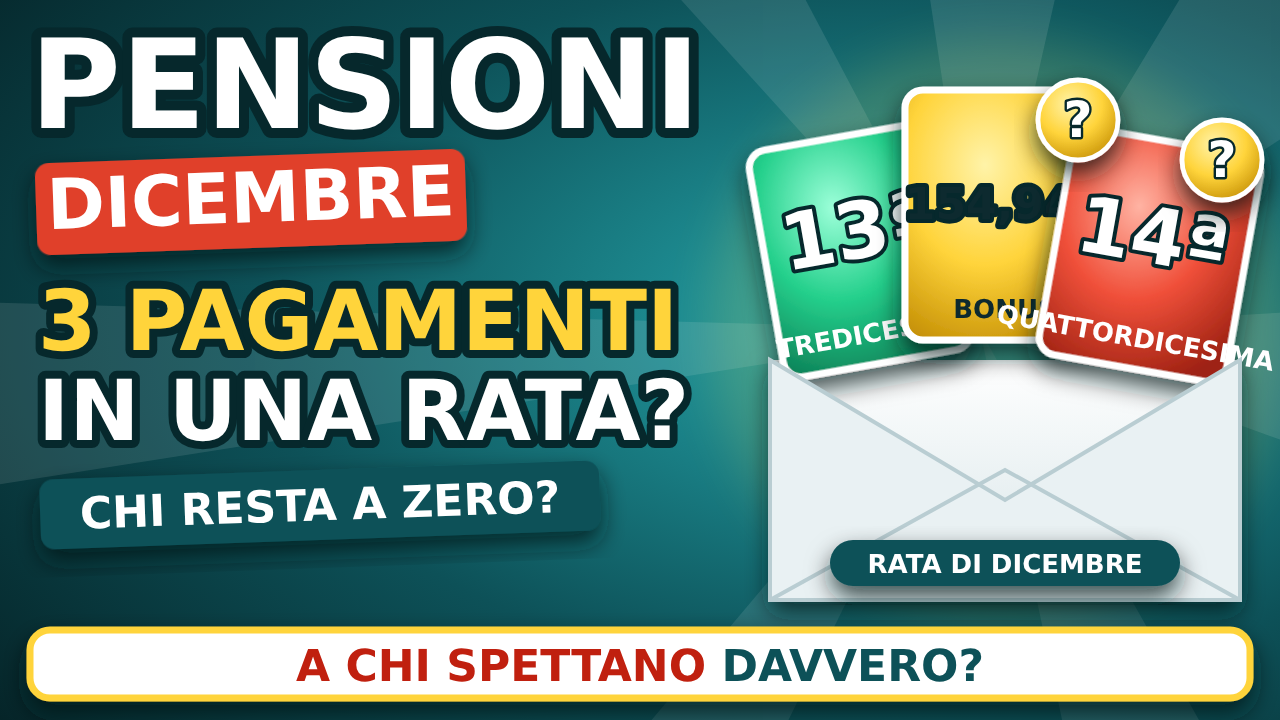
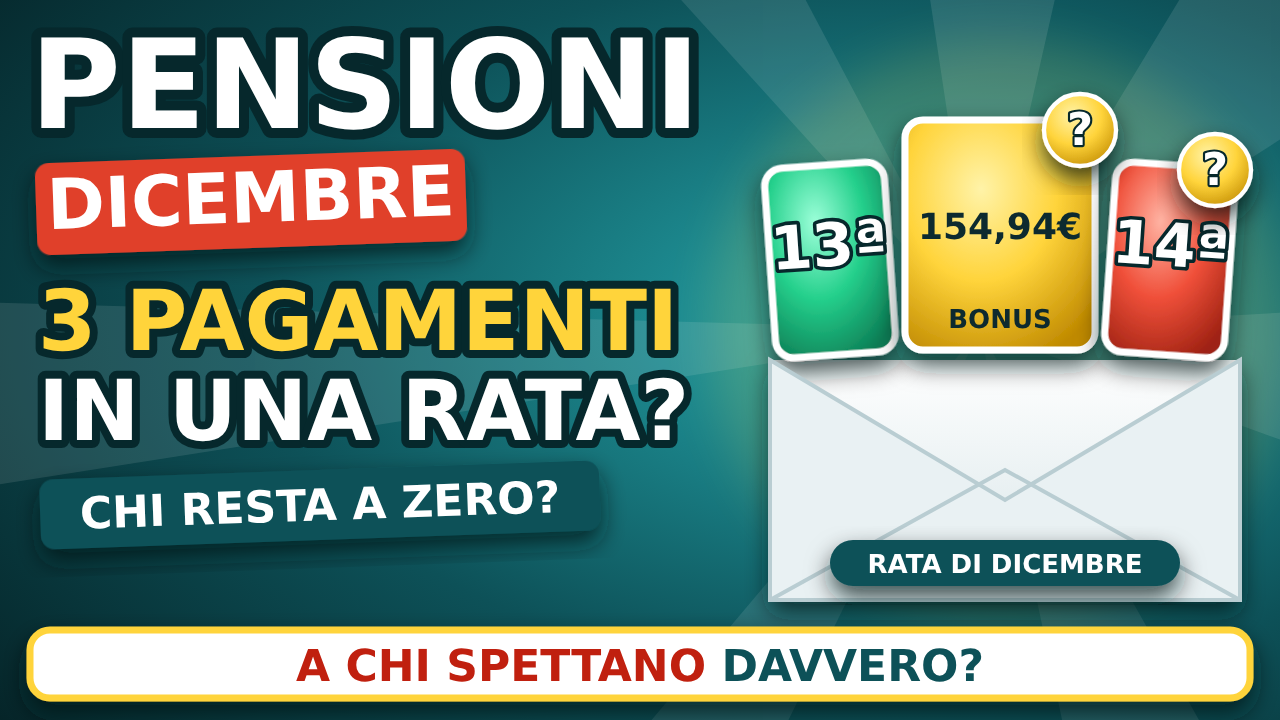
Conti in Pensione: video 9 miniature A e B
Claude-Session: https://claude.ai/code/session_01EZuoQAtV5AgobfY15JhZDe

Changed region(s): [[0.5625, 0.0917, 1.0, 0.5806]]

diff --git a/conti_in_pensione/25-video-lungo-9/miniatura/miniatura-B.html b/conti_in_pensione/25-video-lungo-9/miniatura/miniatura-B.html
@@ -14,8 +14,8 @@
 <circle cx="640" cy="300" r="330" fill="#25D08C" opacity="0.13" filter="url(#gl)"/>
 <g class="t" text-anchor="middle" stroke="#06282C" stroke-linejoin="round" paint-order="stroke" stroke-width="18"><text id="b1" x="640" y="112" font-size="98" fill="#fff">PENSIONI <tspan fill="#FFD43B">DICEMBRE</tspan></text></g>
 <g class="t" text-anchor="middle" stroke="#06282C" stroke-linejoin="round" paint-order="stroke" stroke-width="22"><text id="b2" x="640" y="300" font-size="176" fill="#3BE39A">+154,94€</text></g>
-<g transform="rotate(-1 640.0 367.0)"><g filter="url(#sh)"><rect x="330" y="330" width="620" height="74" rx="14" fill="#FFD43B"/></g><text id="b3" x="640.0" y="383.28" class="t" font-size="46" fill="#0D2A2F" text-anchor="middle">BONUS: TI SPETTA O NO?</text></g>
-<g filter="url(#sh)"><clipPath id="pF250"><circle cx="250" cy="520" r="78"/></clipPath><circle cx="250" cy="520" r="78" fill="#0E5A60"/><g clip-path="url(#pF250)" transform="translate(250 520)"><path d="M-70.2 78 Q-66.3 23.4 0 20.28 Q66.3 23.4 70.2 78 Z" fill="#2B8FA0"/><rect x="-9.36" y="1.56" width="18.72" height="21.840000000000003" fill="#F1D9C4"/><ellipse cx="0" cy="-14.04" rx="23.4" ry="27.299999999999997" fill="#F1D9C4"/><path d="M-24.18 -12.48 Q-26.520000000000003 -35.88 -12.48 -39.0" fill="none" stroke="#C9D3D6" stroke-width="7.800000000000001" stroke-linecap="round"/><circle cx="-10.14" cy="-15.600000000000001" r="7.02" fill="none" stroke="#0B4A50" stroke-width="2.7300000000000004"/><path d="M24.18 -12.48 Q26.520000000000003 -35.88 12.48 -39.0" fill="none" stroke="#C9D3D6" stroke-width="7.800000000000001" stroke-linecap="round"/><circle cx="10.14" cy="-15.600000000000001" r="7.02" fill="none" stroke="#0B4A50" stroke-width="2.7300000000000004"/><circle cx="-9.36" cy="-15.600000000000001" r="2.496" fill="#0B4A50"/><circle cx="9.36" cy="-15.600000000000001" r="2.496" fill="#0B4A50"/><path d="M-7.800000000000001 -0.78 Q0 5.460000000000001 7.800000000000001 -0.78" fill="none" stroke="#0B4A50" stroke-width="2.496" stroke-linecap="round"/></g><circle cx="250" cy="520" r="78" fill="none" stroke="#fff" stroke-width="6.24"/><circle cx="250" cy="520" r="85.02000000000001" fill="none" stroke="#2B8FA0" stroke-width="5.460000000000001"/></g><g filter="url(#sh)"><clipPath id="pA640"><circle cx="640" cy="520" r="78"/></clipPath><circle cx="640" cy="520" r="78" fill="#0E5A60"/><g clip-path="url(#pA640)" transform="translate(640 520)"><path d="M-70.2 78 Q-66.3 23.4 0 20.28 Q66.3 23.4 70.2 78 Z" fill="#1B9F81"/><rect x="-9.36" y="1.56" width="18.72" height="21.840000000000003" fill="#F1D9C4"/><circle cx="0" cy="-46.8" r="14.82" fill="#6B4A3A"/><ellipse cx="0" cy="-14.04" rx="23.4" ry="27.299999999999997" fill="#F1D9C4"/><path d="M-25.740000000000002 -7.800000000000001 Q-29.64 -45.239999999999995 0 -45.239999999999995 Q29.64 -45.239999999999995 25.740000000000002 -7.800000000000001 Q17.16 -32.76 0 -32.76 Q-17.16 -32.76 -25.740000000000002 -7.800000000000001 Z" fill="#6B4A3A"/><circle cx="-9.36" cy="-15.600000000000001" r="2.496" fill="#0B4A50"/><circle cx="9.36" cy="-15.600000000000001" r="2.496" fill="#0B4A50"/><path d="M-7.800000000000001 -0.78 Q0 5.460000000000001 7.800000000000001 -0.78" fill="none" stroke="#0B4A50" stroke-width="2.496" stroke-linecap="round"/></g><circle cx="640" cy="520" r="78" fill="none" stroke="#fff" stroke-width="6.24"/><circle cx="640" cy="520" r="85.02000000000001" fill="none" stroke="#1B9F81" stroke-width="5.460000000000001"/></g><g filter="url(#sh)"><clipPath id="pL1030"><circle cx="1030" cy="520" r="78"/></clipPath><circle cx="1030" cy="520" r="78" fill="#0E5A60"/><g clip-path="url(#pL1030)" transform="translate(1030 520)"><path d="M-70.2 78 Q-66.3 23.4 0 20.28 Q66.3 23.4 70.2 78 Z" fill="#E39A1C"/><rect x="-9.36" y="1.56" width="18.72" height="21.840000000000003" fill="#F1D9C4"/><ellipse cx="0" cy="-14.04" rx="23.4" ry="27.299999999999997" fill="#F1D9C4"/><path d="M-29.64 4.68 Q-34.32 -48.36 0 -45.239999999999995 Q34.32 -48.36 29.64 4.68 L21.060000000000002 4.68 Q21.060000000000002 -29.64 0 -29.64 Q-21.060000000000002 -29.64 -21.060000000000002 4.68 Z" fill="#D5DBDE"/><circle cx="-9.36" cy="-15.600000000000001" r="2.496" fill="#0B4A50"/><circle cx="9.36" cy="-15.600000000000001" r="2.496" fill="#0B4A50"/><path d="M-7.800000000000001 -0.78 Q0 5.460000000000001 7.800000000000001 -0.78" fill="none" stroke="#0B4A50" stroke-width="2.496" stroke-linecap="round"/></g><circle cx="1030" cy="520" r="78" fill="none" stroke="#fff" stroke-width="6.24"/><circle cx="1030" cy="520" r="85.02000000000001" fill="none" stroke="#E39A1C" stroke-width="5.460000000000001"/></g>
+<g transform="rotate(-1 640.0 369.0)"><g filter="url(#sh)"><rect x="280" y="332" width="720" height="74" rx="14" fill="#FFD43B"/></g><text id="b3" x="640.0" y="385.28" class="t" font-size="46" fill="#0D2A2F" text-anchor="middle">BONUS: TI SPETTA O NO?</text></g>
+<g filter="url(#sh)"><circle cx="90" cy="380" r="44" fill="url(#gr)" stroke="#fff" stroke-width="6"/></g><text x="90" y="393" class="t" font-size="36" fill="#fff" text-anchor="middle" stroke="#06282C" stroke-linejoin="round" paint-order="stroke" stroke-width="6">13ª</text><g filter="url(#sh)"><circle cx="1190" cy="380" r="44" fill="url(#re)" stroke="#fff" stroke-width="6"/></g><text x="1190" y="393" class="t" font-size="36" fill="#fff" text-anchor="middle" stroke="#06282C" stroke-linejoin="round" paint-order="stroke" stroke-width="6">14ª</text><g filter="url(#sh)"><clipPath id="pF250"><circle cx="0" cy="0" r="78"/></clipPath><circle cx="250" cy="520" r="78" fill="#0E5A60"/><g transform="translate(250 520)"><g clip-path="url(#pF250)"><path d="M-70.2 78 Q-66.3 23.4 0 20.28 Q66.3 23.4 70.2 78 Z" fill="#2B8FA0"/><rect x="-9.36" y="1.56" width="18.72" height="21.840000000000003" fill="#F1D9C4"/><ellipse cx="0" cy="-14.04" rx="23.4" ry="27.299999999999997" fill="#F1D9C4"/><path d="M-24.18 -12.48 Q-26.520000000000003 -35.88 -12.48 -39.0" fill="none" stroke="#C9D3D6" stroke-width="7.800000000000001" stroke-linecap="round"/><circle cx="-10.14" cy="-15.600000000000001" r="7.02" fill="none" stroke="#0B4A50" stroke-width="2.7300000000000004"/><path d="M24.18 -12.48 Q26.520000000000003 -35.88 12.48 -39.0" fill="none" stroke="#C9D3D6" stroke-width="7.800000000000001" stroke-linecap="round"/><circle cx="10.14" cy="-15.600000000000001" r="7.02" fill="none" stroke="#0B4A50" stroke-width="2.7300000000000004"/><circle cx="-9.36" cy="-15.600000000000001" r="2.496" fill="#0B4A50"/><circle cx="9.36" cy="-15.600000000000001" r="2.496" fill="#0B4A50"/><path d="M-7.800000000000001 -0.78 Q0 5.460000000000001 7.800000000000001 -0.78" fill="none" stroke="#0B4A50" stroke-width="2.496" stroke-linecap="round"/></g></g><circle cx="250" cy="520" r="78" fill="none" stroke="#fff" stroke-width="6.24"/><circle cx="250" cy="520" r="85.02000000000001" fill="none" stroke="#2B8FA0" stroke-width="5.460000000000001"/></g><g filter="url(#sh)"><clipPath id="pA640"><circle cx="0" cy="0" r="78"/></clipPath><circle cx="640" cy="520" r="78" fill="#0E5A60"/><g transform="translate(640 520)"><g clip-path="url(#pA640)"><path d="M-70.2 78 Q-66.3 23.4 0 20.28 Q66.3 23.4 70.2 78 Z" fill="#1B9F81"/><rect x="-9.36" y="1.56" width="18.72" height="21.840000000000003" fill="#F1D9C4"/><circle cx="0" cy="-46.8" r="14.82" fill="#6B4A3A"/><ellipse cx="0" cy="-14.04" rx="23.4" ry="27.299999999999997" fill="#F1D9C4"/><path d="M-25.740000000000002 -7.800000000000001 Q-29.64 -45.239999999999995 0 -45.239999999999995 Q29.64 -45.239999999999995 25.740000000000002 -7.800000000000001 Q17.16 -32.76 0 -32.76 Q-17.16 -32.76 -25.740000000000002 -7.800000000000001 Z" fill="#6B4A3A"/><circle cx="-9.36" cy="-15.600000000000001" r="2.496" fill="#0B4A50"/><circle cx="9.36" cy="-15.600000000000001" r="2.496" fill="#0B4A50"/><path d="M-7.800000000000001 -0.78 Q0 5.460000000000001 7.800000000000001 -0.78" fill="none" stroke="#0B4A50" stroke-width="2.496" stroke-linecap="round"/></g></g><circle cx="640" cy="520" r="78" fill="none" stroke="#fff" stroke-width="6.24"/><circle cx="640" cy="520" r="85.02000000000001" fill="none" stroke="#1B9F81" stroke-width="5.460000000000001"/></g><g filter="url(#sh)"><clipPath id="pL1030"><circle cx="0" cy="0" r="78"/></clipPath><circle cx="1030" cy="520" r="78" fill="#0E5A60"/><g transform="translate(1030 520)"><g clip-path="url(#pL1030)"><path d="M-70.2 78 Q-66.3 23.4 0 20.28 Q66.3 23.4 70.2 78 Z" fill="#E39A1C"/><rect x="-9.36" y="1.56" width="18.72" height="21.840000000000003" fill="#F1D9C4"/><ellipse cx="0" cy="-14.04" rx="23.4" ry="27.299999999999997" fill="#F1D9C4"/><path d="M-29.64 4.68 Q-34.32 -48.36 0 -45.239999999999995 Q34.32 -48.36 29.64 4.68 L21.060000000000002 4.68 Q21.060000000000002 -29.64 0 -29.64 Q-21.060000000000002 -29.64 -21.060000000000002 4.68 Z" fill="#D5DBDE"/><circle cx="-9.36" cy="-15.600000000000001" r="2.496" fill="#0B4A50"/><circle cx="9.36" cy="-15.600000000000001" r="2.496" fill="#0B4A50"/><path d="M-7.800000000000001 -0.78 Q0 5.460000000000001 7.800000000000001 -0.78" fill="none" stroke="#0B4A50" stroke-width="2.496" stroke-linecap="round"/></g></g><circle cx="1030" cy="520" r="78" fill="none" stroke="#fff" stroke-width="6.24"/><circle cx="1030" cy="520" r="85.02000000000001" fill="none" stroke="#E39A1C" stroke-width="5.460000000000001"/></g>
 <g filter="url(#sh)"><circle cx="322" cy="452" r="34" fill="url(#re)" stroke="#fff" stroke-width="4.08"/></g><text x="322" y="466.28" class="t" font-size="42.5" fill="#fff" text-anchor="middle" stroke="#06282C" stroke-linejoin="round" paint-order="stroke" stroke-width="4.08">?</text><g filter="url(#sh)"><circle cx="712" cy="452" r="34" fill="url(#gr)" stroke="#fff" stroke-width="4.08"/></g><text x="712" y="466.28" class="t" font-size="42.5" fill="#fff" text-anchor="middle" stroke="#06282C" stroke-linejoin="round" paint-order="stroke" stroke-width="4.08">?</text><g filter="url(#sh)"><circle cx="1102" cy="452" r="34" fill="url(#ye)" stroke="#fff" stroke-width="4.08"/></g><text x="1102" y="466.28" class="t" font-size="42.5" fill="#fff" text-anchor="middle" stroke="#06282C" stroke-linejoin="round" paint-order="stroke" stroke-width="4.08">?</text>
-<g transform="rotate(-6 100.0 496.0)"><g filter="url(#sh)"><rect x="30" y="470" width="140" height="52" rx="14" fill="#fff"/></g><text id="b4" x="100.0" y="507.44" class="t" font-size="34" fill="#0D5158" text-anchor="middle">13ª</text></g><g transform="rotate(6 1180.0 496.0)"><g filter="url(#sh)"><rect x="1110" y="470" width="140" height="52" rx="14" fill="#E0402A"/></g><text id="b5" x="1180.0" y="507.44" class="t" font-size="34" fill="#fff" text-anchor="middle">14ª</text></g>
+
 <g filter="url(#sh)"><rect x="30" y="630" width="1220" height="68" rx="20" fill="#fff"/><rect x="30" y="630" width="1220" height="68" rx="20" fill="none" stroke="#FFD43B" stroke-width="7"/></g><text id="strip" x="640" y="681" class="t" font-size="44" fill="#C0200F" text-anchor="middle">PER 10 € IN PIÙ AL MESE <tspan fill="#0D5158">LO PERDI</tspan></text></svg></body></html>

diff --git a/conti_in_pensione/25-video-lungo-9/miniatura/miniatura-A.html b/conti_in_pensione/25-video-lungo-9/miniatura/miniatura-A.html
@@ -17,10 +17,10 @@
 <g class="t" stroke="#06282C" stroke-linejoin="round" paint-order="stroke" stroke-width="16"><text id="a3" x="38" y="350" font-size="84" fill="#FFD43B">3 PAGAMENTI</text><text id="a4" x="38" y="440" font-size="84" fill="#fff">IN UNA RATA?</text></g>
 <g transform="rotate(-2 320.0 505.0)"><g filter="url(#sh)"><rect x="40" y="470" width="560" height="70" rx="14" fill="#0D5158"/></g><text id="a5" x="320.0" y="520.4" class="t" font-size="44" fill="#fff" text-anchor="middle">CHI RESTA A ZERO?</text></g>
 <g filter="url(#sh)"><path d="M770 360 L1240 360 L1240 600 L770 600 Z" fill="url(#pp)"/></g>
-<g transform="rotate(-10 860 250)"><g filter="url(#sh)"><rect x="765.0" y="135.0" width="190" height="230" rx="18" fill="url(#gr)" stroke="#fff" stroke-width="7"/></g><text x="860" y="257.8" class="t" font-size="78" fill="#fff" text-anchor="middle" stroke="#06282C" stroke-linejoin="round" paint-order="stroke" stroke-width="8">13ª</text><text x="860" y="343.0" class="t" font-size="26" fill="#fff" text-anchor="middle">TREDICESIMA</text></g>
-<g transform="rotate(0 1005 215)"><g filter="url(#sh)"><rect x="905.0" y="90.0" width="200" height="250" rx="18" fill="url(#ye)" stroke="#fff" stroke-width="7"/></g><text x="1005" y="219.4" class="t" font-size="44" fill="#0D2A2F" text-anchor="middle" stroke="#06282C" stroke-linejoin="round" paint-order="stroke" stroke-width="8">154,94€</text><text x="1005" y="318.0" class="t" font-size="26" fill="#0D2A2F" text-anchor="middle">BONUS</text></g>
-<g transform="rotate(10 1150 255)"><g filter="url(#sh)"><rect x="1055.0" y="140.0" width="190" height="230" rx="18" fill="url(#re)" stroke="#fff" stroke-width="7"/></g><text x="1150" y="262.8" class="t" font-size="78" fill="#fff" text-anchor="middle" stroke="#06282C" stroke-linejoin="round" paint-order="stroke" stroke-width="8">14ª</text><text x="1150" y="348.0" class="t" font-size="26" fill="#fff" text-anchor="middle">QUATTORDICESIMA</text></g>
+<g transform="rotate(-4 830 260)"><g filter="url(#sh)"><rect x="770.0" y="165.0" width="120" height="190" rx="18" fill="url(#gr)" stroke="#fff" stroke-width="7"/></g><text x="830" y="266.0" class="t" font-size="60" fill="#fff" text-anchor="middle" stroke="#06282C" stroke-linejoin="round" paint-order="stroke" stroke-width="7.199999999999999">13ª</text><text x="830" y="333.0" class="t" font-size="26" fill="#fff" text-anchor="middle"></text></g>
+<g transform="rotate(0 1000 235)"><g filter="url(#sh)"><rect x="905.0" y="120.0" width="190" height="230" rx="18" fill="url(#ye)" stroke="#fff" stroke-width="7"/></g><text x="1000" y="238.6" class="t" font-size="36" fill="#0D2A2F" text-anchor="middle"  stroke-width="4.32">154,94€</text><text x="1000" y="328.0" class="t" font-size="26" fill="#0D2A2F" text-anchor="middle">BONUS</text></g>
+<g transform="rotate(4 1170 260)"><g filter="url(#sh)"><rect x="1110.0" y="165.0" width="120" height="190" rx="18" fill="url(#re)" stroke="#fff" stroke-width="7"/></g><text x="1170" y="266.0" class="t" font-size="60" fill="#fff" text-anchor="middle" stroke="#06282C" stroke-linejoin="round" paint-order="stroke" stroke-width="7.199999999999999">14ª</text><text x="1170" y="333.0" class="t" font-size="26" fill="#fff" text-anchor="middle"></text></g>
 <path d="M770 360 L1005 500 L1240 360 L1240 600 L770 600 Z" fill="#E9F1F3" stroke="#B9CDD2" stroke-width="4"/><path d="M770 600 L1005 470 L1240 600" fill="none" stroke="#B9CDD2" stroke-width="4"/>
 <g filter="url(#sh)"><rect x="830" y="540" width="350" height="46" rx="23" fill="#0D5158"/></g><text x="1005" y="573" class="t" font-size="26" fill="#fff" text-anchor="middle">RATA DI DICEMBRE</text>
-<g filter="url(#sh)"><circle cx="1078" cy="120" r="40" fill="url(#ye)" stroke="#fff" stroke-width="4.8"/></g><text x="1078" y="136.8" class="t" font-size="50.0" fill="#fff" text-anchor="middle" stroke="#06282C" stroke-linejoin="round" paint-order="stroke" stroke-width="4.8">?</text><g filter="url(#sh)"><circle cx="1222" cy="160" r="40" fill="url(#ye)" stroke="#fff" stroke-width="4.8"/></g><text x="1222" y="176.8" class="t" font-size="50.0" fill="#fff" text-anchor="middle" stroke="#06282C" stroke-linejoin="round" paint-order="stroke" stroke-width="4.8">?</text>
+<g filter="url(#sh)"><circle cx="1080" cy="130" r="36" fill="url(#ye)" stroke="#fff" stroke-width="4.32"/></g><text x="1080" y="145.12" class="t" font-size="45.0" fill="#fff" text-anchor="middle" stroke="#06282C" stroke-linejoin="round" paint-order="stroke" stroke-width="4.32">?</text><g filter="url(#sh)"><circle cx="1215" cy="170" r="36" fill="url(#ye)" stroke="#fff" stroke-width="4.32"/></g><text x="1215" y="185.12" class="t" font-size="45.0" fill="#fff" text-anchor="middle" stroke="#06282C" stroke-linejoin="round" paint-order="stroke" stroke-width="4.32">?</text>
 <g filter="url(#sh)"><rect x="30" y="630" width="1220" height="68" rx="20" fill="#fff"/><rect x="30" y="630" width="1220" height="68" rx="20" fill="none" stroke="#FFD43B" stroke-width="7"/></g><text id="strip" x="640" y="681" class="t" font-size="44" fill="#C0200F" text-anchor="middle">A CHI SPETTANO <tspan fill="#0D5158">DAVVERO?</tspan></text></svg></body></html>

diff --git a/conti_in_pensione/25-video-lungo-9/miniatura/gen9.py b/conti_in_pensione/25-video-lungo-9/miniatura/gen9.py
@@ -15,7 +15,7 @@ def qball(cx,cy,r,fill='url(#ye)'):
     return f'<g filter="url(#sh)"><circle cx="{cx}" cy="{cy}" r="{r}" fill="{fill}" stroke="#fff" stroke-width="{r*0.12}"/></g><text x="{cx}" y="{cy+r*0.42}" class="t" font-size="{r*1.25}" fill="#fff" text-anchor="middle" {S} stroke-width="{r*0.12}">?</text>'
 def person(cx,cy,r,kind,col):
     SK='#F1D9C4';u=f'p{kind}{cx}'
-    s=f'<g filter="url(#sh)"><clipPath id="{u}"><circle cx="{cx}" cy="{cy}" r="{r}"/></clipPath><circle cx="{cx}" cy="{cy}" r="{r}" fill="#0E5A60"/><g clip-path="url(#{u})" transform="translate({cx} {cy})">'
+    s=f'<g filter="url(#sh)"><clipPath id="{u}"><circle cx="0" cy="0" r="{r}"/></clipPath><circle cx="{cx}" cy="{cy}" r="{r}" fill="#0E5A60"/><g transform="translate({cx} {cy})"><g clip-path="url(#{u})">'
     s+=f'<path d="M{-r*0.9} {r} Q{-r*0.85} {r*0.3} 0 {r*0.26} Q{r*0.85} {r*0.3} {r*0.9} {r} Z" fill="{col}"/><rect x="{-r*0.12}" y="{r*0.02}" width="{r*0.24}" height="{r*0.28}" fill="{SK}"/>'
     if kind=='A':s+=f'<circle cx="0" cy="{-r*0.6}" r="{r*0.19}" fill="#6B4A3A"/>'
     s+=f'<ellipse cx="0" cy="{-r*0.18}" rx="{r*0.3}" ry="{r*0.35}" fill="{SK}"/>'
@@ -24,11 +24,11 @@ def person(cx,cy,r,kind,col):
     if kind=='F':
         for k in (-1,1):s+=f'<path d="M{k*r*0.31} {-r*0.16} Q{k*r*0.34} {-r*0.46} {k*r*0.16} {-r*0.5}" fill="none" stroke="#C9D3D6" stroke-width="{r*0.1}" stroke-linecap="round"/><circle cx="{k*r*0.13}" cy="{-r*0.2}" r="{r*0.09}" fill="none" stroke="#0B4A50" stroke-width="{r*0.035}"/>'
     for k in (-1,1):s+=f'<circle cx="{k*r*0.12}" cy="{-r*0.2}" r="{r*0.032}" fill="#0B4A50"/>'
-    s+=f'<path d="M{-r*0.1} {-r*0.01} Q0 {r*0.07} {r*0.1} {-r*0.01}" fill="none" stroke="#0B4A50" stroke-width="{r*0.032}" stroke-linecap="round"/></g>'
+    s+=f'<path d="M{-r*0.1} {-r*0.01} Q0 {r*0.07} {r*0.1} {-r*0.01}" fill="none" stroke="#0B4A50" stroke-width="{r*0.032}" stroke-linecap="round"/></g></g>'
     s+=f'<circle cx="{cx}" cy="{cy}" r="{r}" fill="none" stroke="#fff" stroke-width="{r*0.08}"/><circle cx="{cx}" cy="{cy}" r="{r*1.09}" fill="none" stroke="{col}" stroke-width="{r*0.07}"/></g>'
     return s
 def card(x,y,w,h,rot,fill,big,fs,sub,col='#fff'):
-    return f'<g transform="rotate({rot} {x} {y})"><g filter="url(#sh)"><rect x="{x-w/2}" y="{y-h/2}" width="{w}" height="{h}" rx="18" fill="{fill}" stroke="#fff" stroke-width="7"/></g><text x="{x}" y="{y+fs*0.1}" class="t" font-size="{fs}" fill="{col}" text-anchor="middle" {S} stroke-width="8">{big}</text><text x="{x}" y="{y+h/2-22}" class="t" font-size="26" fill="{col}" text-anchor="middle">{sub}</text></g>'
+    return f'<g transform="rotate({rot} {x} {y})"><g filter="url(#sh)"><rect x="{x-w/2}" y="{y-h/2}" width="{w}" height="{h}" rx="18" fill="{fill}" stroke="#fff" stroke-width="7"/></g><text x="{x}" y="{y+fs*0.1}" class="t" font-size="{fs}" fill="{col}" text-anchor="middle" {S if col=='#fff' else ''} stroke-width="{max(3,fs*0.12)}">{big}</text><text x="{x}" y="{y+h/2-22}" class="t" font-size="26" fill="{col}" text-anchor="middle">{sub}</text></g>'
 # A: LA BUSTA DELLA RATA DI DICEMBRE con 3 pagamenti che escono (due coperti da "?")
 ENV=f'''<g filter="url(#sh)"><path d="M770 360 L1240 360 L1240 600 L770 600 Z" fill="url(#pp)"/></g>'''
 ENVF=f'''<path d="M770 360 L1005 500 L1240 360 L1240 600 L770 600 Z" fill="#E9F1F3" stroke="#B9CDD2" stroke-width="4"/><path d="M770 600 L1005 470 L1240 600" fill="none" stroke="#B9CDD2" stroke-width="4"/>
@@ -39,20 +39,20 @@ A=HEAD+f"""<circle cx="1000" cy="330" r="290" fill="#FFD43B" opacity="0.14" filt
 <g class="t" {S} stroke-width="16"><text id="a3" x="38" y="350" font-size="84" fill="#FFD43B">3 PAGAMENTI</text><text id="a4" x="38" y="440" font-size="84" fill="#fff">IN UNA RATA?</text></g>
 {blocco(40,470,560,70,"CHI RESTA A ZERO?",44,"#0D5158","#fff",-2,'a5')}
 {ENV}
-{card(860,250,190,230,-10,"url(#gr)","13ª",78,"TREDICESIMA")}
-{card(1005,215,200,250,0,"url(#ye)","154,94€",44,"BONUS","#0D2A2F")}
-{card(1150,255,190,230,10,"url(#re)","14ª",78,"QUATTORDICESIMA")}
+{card(830,260,120,190,-4,"url(#gr)","13ª",60,"")}
+{card(1000,235,190,230,0,"url(#ye)","154,94€",36,"BONUS","#0D2A2F")}
+{card(1170,260,120,190,4,"url(#re)","14ª",60,"")}
 {ENVF}
-{qball(1078,120,40)}{qball(1222,160,40)}
+{qball(1080,130,36)}{qball(1215,170,36)}
 """+STRIP('A CHI SPETTANO <tspan fill="#0D5158">DAVVERO?</tspan>')+END
 # B: NUMERO GIGANTE + TRE VICINI con "?" (chi lo prende?)
 B=HEAD+f"""<circle cx="640" cy="300" r="330" fill="#25D08C" opacity="0.13" filter="url(#gl)"/>
 <g class="t" text-anchor="middle" {S} stroke-width="18"><text id="b1" x="640" y="112" font-size="98" fill="#fff">PENSIONI <tspan fill="#FFD43B">DICEMBRE</tspan></text></g>
 <g class="t" text-anchor="middle" {S} stroke-width="22"><text id="b2" x="640" y="300" font-size="176" fill="#3BE39A">+154,94€</text></g>
-{blocco(330,330,620,74,"BONUS: TI SPETTA O NO?",46,"#FFD43B","#0D2A2F",-1,'b3')}
-{person(250,520,78,'F','#2B8FA0')}{person(640,520,78,'A','#1B9F81')}{person(1030,520,78,'L','#E39A1C')}
+{blocco(280,332,720,74,"BONUS: TI SPETTA O NO?",46,"#FFD43B","#0D2A2F",-1,'b3')}
+<g filter="url(#sh)"><circle cx="90" cy="380" r="44" fill="url(#gr)" stroke="#fff" stroke-width="6"/></g><text x="90" y="393" class="t" font-size="36" fill="#fff" text-anchor="middle" {S} stroke-width="6">13ª</text><g filter="url(#sh)"><circle cx="1190" cy="380" r="44" fill="url(#re)" stroke="#fff" stroke-width="6"/></g><text x="1190" y="393" class="t" font-size="36" fill="#fff" text-anchor="middle" {S} stroke-width="6">14ª</text>{person(250,520,78,'F','#2B8FA0')}{person(640,520,78,'A','#1B9F81')}{person(1030,520,78,'L','#E39A1C')}
 {qball(322,452,34,'url(#re)')}{qball(712,452,34,'url(#gr)')}{qball(1102,452,34,'url(#ye)')}
-{blocco(30,470,140,52,"13ª",34,"#fff","#0D5158",-6,'b4')}{blocco(1110,470,140,52,"14ª",34,"#E0402A","#fff",6,'b5')}
+
 """+STRIP('PER 10 € IN PIÙ AL MESE <tspan fill="#0D5158">LO PERDI</tspan>')+END
 JS="""()=>{const o=[];for(const t of document.querySelectorAll('text')){const r=t.getBoundingClientRect();if(r.width<2)continue;o.push([t.textContent.slice(0,22),Math.round(r.x),Math.round(r.y),Math.round(r.right),Math.round(r.bottom)]);}return o;}"""
 async def main():

diff --git a/conti_in_pensione/REGOLE-FISSE.md b/conti_in_pensione/REGOLE-FISSE.md
@@ -504,3 +504,4 @@
 - Alla domanda "e' tutto perfetto?" ho trovato un difetto gia' consegnato: nella descrizione "Chi non lo prende mai: assegno sociale, pensione sociale, invalidita' civile" manca "SOLO" (l'Inps esclude chi ha SOLO trattamenti assistenziali; chi ha anche una pensione Inps puo' averlo). Il copione e le slide lo dicevano giusto.
 - Regola: nella revisione finale confrontare OGNI riga della descrizione con il copione e con la fonte, parola per parola (condizioni come "solo", "fino a", "almeno" non si tolgono mai per accorciare).
 - (21/10, utente: "mandamelo intero") Quando si corregge un testo gia' consegnato (descrizione, titolo, tag, commento) si rimanda SEMPRE il campo INTERO corretto nel suo riquadro, pronto da copiare: mai solo la riga cambiata.
+- (21/10) Video 9: miniature miniatura/miniatura-A.png (busta "RATA DI DICEMBRE" con carte 13a / 154,94 € / 14a, due coperte da "?", PENSIONI DICEMBRE, 3 PAGAMENTI IN UNA RATA?, CHI RESTA A ZERO?) e miniatura-B.png (+154,94 € gigante, BONUS: TI SPETTA O NO?, tre vicini con "?", palline 13a/14a, striscia PER 10 € IN PIU' AL MESE LO PERDI). gen9.py; testi misurati e guardati. Pacchetto aggiornato.
